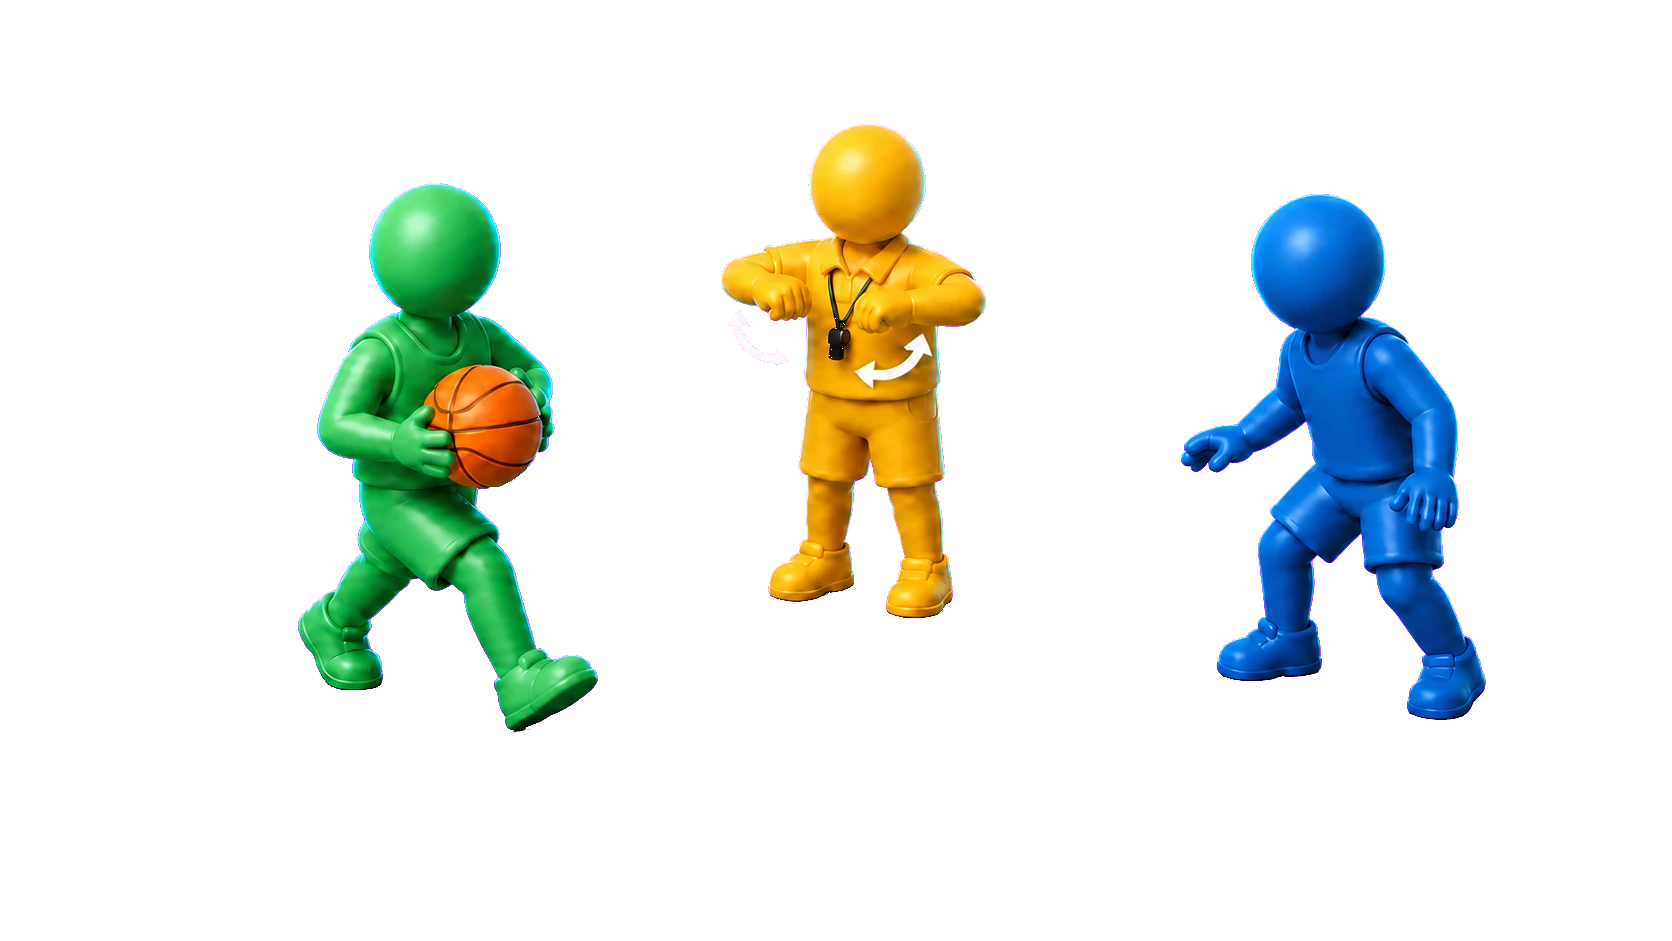
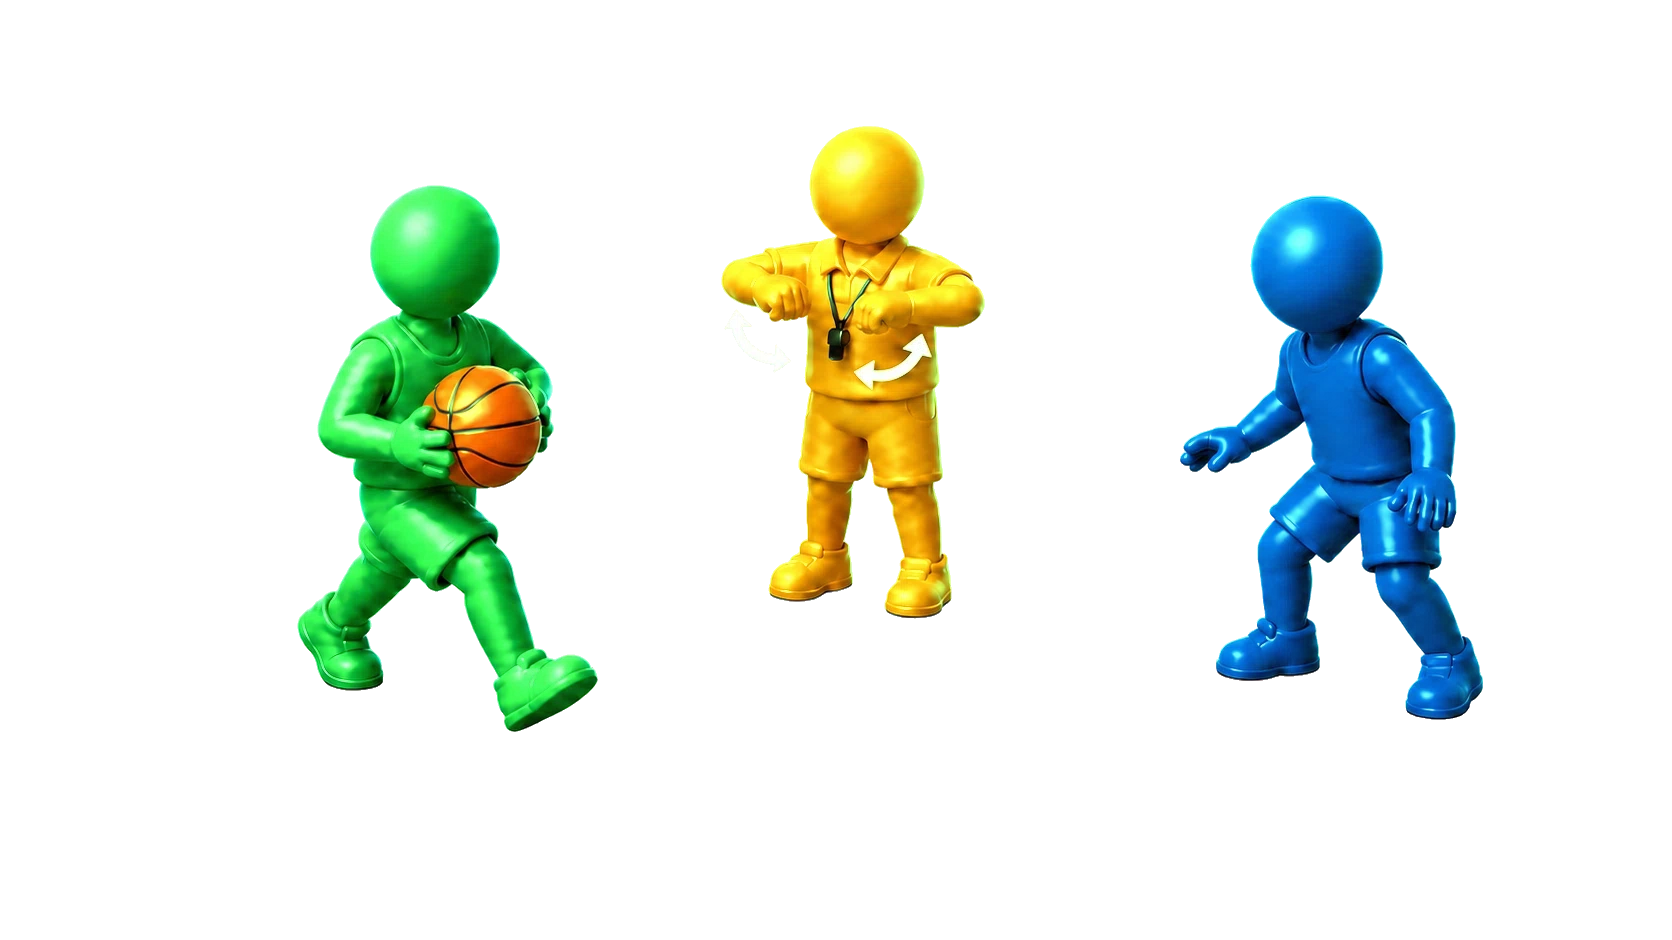
feat(rulebook): add easy guide and redraw illustrations

diff --git a/src/pages/RefereeRulebook.jsx b/src/pages/RefereeRulebook.jsx
@@ -1,17 +1,18 @@
 import { ArrowLeft, BookOpen, ClipboardCheck, ShieldCheck } from "lucide-react";
-import { Link } from "react-router-dom";
+import { Link, useSearchParams } from "react-router-dom";
 import Badge from "../components/common/Badge.jsx";
 import Button from "../components/common/Button.jsx";
 import Card from "../components/common/Card.jsx";
 import { assetUrl } from "../lib/assets.js";
 import {
   REFEREE_RULEBOOK_CHECKLIST,
+  REFEREE_RULEBOOK_EASY_SECTIONS,
   REFEREE_RULEBOOK_NOTICE,
   REFEREE_RULEBOOK_SECTIONS,
   REFEREE_STAT_GUIDELINES,
 } from "../lib/refereeRulebook.js";
 
-const RULEBOOK_ASSET_VERSION = "20260728-2";
+const RULEBOOK_ASSET_VERSION = "20260728-3";
 const RULEBOOK_SOURCES = [
   {
     label: "FIBA 경기규칙 2024",
@@ -91,12 +92,23 @@ function RulebookIllustration({ scene, theme = "dark" }) {
 }
 
 export default function RefereeRulebook({ theme = "dark" }) {
+  const [searchParams, setSearchParams] = useSearchParams();
+  const rulebookLevel = searchParams.get("level") === "detail" ? "detail" : "easy";
+  const isEasyRulebook = rulebookLevel === "easy";
+
+  const selectRulebookLevel = (nextLevel) => {
+    const nextParams = new URLSearchParams(searchParams);
+    if (nextLevel === "detail") nextParams.set("level", "detail");
+    else nextParams.delete("level");
+    setSearchParams(nextParams, { replace: true });
+  };
+
   return (
     <div className="page-stack referee-rulebook-page">
       <header className="page-header">
         <div>
           <p className="eyebrow">Study guide</p>
-          <h1>커뮤니티 심판 룰북</h1>
+          <h1>농구 룰북</h1>
         </div>
         <Button as={Link} variant="secondary" to="/app/settings">
           <ArrowLeft size={16} /> 설정
@@ -105,17 +117,60 @@ export default function RefereeRulebook({ theme = "dark" }) {
 
       <Card className="referee-rulebook-intro">
         <div>
-          <Badge tone="blue">FIBA 2024 · BOXTIER 운영 기준</Badge>
-          <h2>판정과 기록 기준</h2>
-          <p>경기 전 확인, 코트 판정, 출석·교체, 개인활약, 결과 확인·이의·확정과 MMR 기준입니다.</p>
+          <Badge tone={isEasyRulebook ? "green" : "blue"}>
+            {isEasyRulebook ? "처음 보는 사람용" : "FIBA 2024 · BOXTIER 운영 기준"}
+          </Badge>
+          <h2>{isEasyRulebook ? "경기에서 바로 쓰는 쉬운 규칙" : "판정과 기록 상세 기준"}</h2>
+          <p>
+            {isEasyRulebook
+              ? "처음 한 경기를 운영할 때 꼭 필요한 내용만 6단계로 줄였습니다."
+              : "경기 전 확인, 코트 판정, 출석·교체, 개인활약, 결과 확인·이의·확정과 MMR 기준입니다."}
+          </p>
         </div>
         <RulebookIllustration scene="standard" theme={theme} />
       </Card>
 
-      <div className="referee-rulebook-notice">
-        {REFEREE_RULEBOOK_NOTICE.map((notice) => <span key={notice}>{notice}</span>)}
+      <div className="segmented-control compact-segments rulebook-level-switch" aria-label="룰북 난이도">
+        <button
+          type="button"
+          className={isEasyRulebook ? "active" : ""}
+          aria-pressed={isEasyRulebook}
+          onClick={() => selectRulebookLevel("easy")}
+        >
+          쉬운 규칙
+        </button>
+        <button
+          type="button"
+          className={!isEasyRulebook ? "active" : ""}
+          aria-pressed={!isEasyRulebook}
+          onClick={() => selectRulebookLevel("detail")}
+        >
+          상세 규칙
+        </button>
       </div>
 
+      <div className="referee-rulebook-notice">
+        {(isEasyRulebook
+          ? [
+            "공식 대회·학교·협회 경기는 해당 대회 규칙이 먼저입니다.",
+            "세부 판정과 개인활약 기록 기준은 상세 규칙에서 확인합니다.",
+          ]
+          : REFEREE_RULEBOOK_NOTICE
+        ).map((notice) => <span key={notice}>{notice}</span>)}
+      </div>
+
+      {isEasyRulebook ? (
+        <RulebookChapter
+          chapter={{
+            eyebrow: "Easy rulebook",
+            title: "처음 한 경기, 이것만 확인",
+            description: "더 정확한 판정 기준과 개인활약 세부 기준은 상세 규칙에서 확인합니다.",
+            sections: REFEREE_RULEBOOK_EASY_SECTIONS,
+          }}
+          theme={theme}
+        />
+      ) : (
+        <>
       <section className="referee-rulebook-checklist">
         <div className="section-title-row">
           <div>
@@ -178,6 +233,8 @@ export default function RefereeRulebook({ theme = "dark" }) {
       {RULEBOOK_CHAPTERS.slice(1).map((chapter) => (
         <RulebookChapter key={chapter.title} chapter={chapter} theme={theme} />
       ))}
+        </>
+      )}
 
       <Card className="referee-rulebook-footer">
         <BookOpen size={20} />

diff --git a/src/lib/refereeRulebook.js b/src/lib/refereeRulebook.js
@@ -1,3 +1,90 @@
+export const REFEREE_RULEBOOK_EASY_SECTIONS = [
+  {
+    title: "1. 시작 전에 1분만 확인",
+    scene: "pregame",
+    summary: "사람, 규칙, 코트 상태를 먼저 맞추면 경기 중 다툼이 크게 줄어듭니다.",
+    points: [
+      "출석한 출전선수·후보·심판·경기시계 담당자가 누구인지 확인합니다.",
+      "목표 점수, 경기시간, 샷클락, 파울 처리처럼 이번 경기에 쓸 규칙만 말로 맞춥니다.",
+      "바닥이 미끄럽거나 골대가 흔들리면 경기보다 안전 확인이 먼저입니다.",
+    ],
+    details: [{
+      label: "한 줄 기준",
+      items: ["시작 전 합의하지 않은 규칙을 경기 중 한쪽에만 새로 적용하지 않습니다."],
+    }],
+  },
+  {
+    title: "2. 반칙은 불이익이 생겼는지 확인",
+    scene: "contact",
+    summary: "몸이 닿았다고 전부 파울은 아닙니다. 균형·속도·방향·슛에 영향을 줬는지 봅니다.",
+    points: [
+      "밀기, 잡기, 팔 치기처럼 상대 플레이를 막아 이득을 얻으면 파울입니다.",
+      "라인을 밟고 공을 잡으면 아웃이고, 공을 든 채 불법으로 발을 옮기면 트래블링입니다.",
+      "확실히 보지 못한 장면은 목소리가 큰 사람의 주장만으로 판정하지 않습니다.",
+    ],
+    details: [{
+      label: "헷갈릴 때",
+      items: ["비슷한 접촉에는 양 팀 모두 같은 기준을 적용합니다."],
+    }],
+  },
+  {
+    title: "3. 점수와 시계 담당을 구분",
+    scene: "clock",
+    summary: "경기시계를 조작하는 사람과 공식 기록을 맡는 사람의 권한은 경기 방식에 따라 다릅니다.",
+    points: [
+      "심판 경기에서는 배정 심판이 양 팀 점수와 개인기록을 관리합니다.",
+      "무심판·시계 사용 경기에서는 현재 경기시계 담당자가 양 팀 점수를 관리합니다.",
+      "무심판·시계 미사용 경기에서만 방장이 양 팀 점수를 관리합니다.",
+    ],
+    details: [{
+      label: "샷클락",
+      items: ["24초·30초·60초 또는 사용 안 함 중 시작 전에 고르고, 자동 14초 재설정은 하지 않습니다."],
+    }],
+  },
+  {
+    title: "4. QR 출석과 실제 출전은 다름",
+    scene: "authority",
+    summary: "QR을 찍었다고 경기 출전 기록이 생기지는 않습니다. 실제 코트에 들어가야 출전입니다.",
+    points: [
+      "지각 QR을 찍은 선수는 후보로 등록될 뿐 자동 출전하지 않습니다.",
+      "후보 본인은 같은 사이드 출전선수 한 명을 골라 자진 교체할 수 있습니다.",
+      "배정 심판은 양 팀 교체가 가능하지만 무심판 방장·파티장·다른 선수는 타인을 교체할 수 없습니다.",
+    ],
+    details: [{
+      label: "출전 기록",
+      items: ["교체 transaction에 실제로 포함된 선수만 출전시간·개인 전적·MMR 대상이 됩니다."],
+    }],
+  },
+  {
+    title: "5. 개인기록은 심판 경기만",
+    scene: "stats",
+    summary: "일반 live 경기의 개인 득점·리바운드·어시스트는 배정 심판이 있을 때만 만듭니다.",
+    points: [
+      "심판은 실제 출전선수의 개인기록을 입력하고, 기록이 0이어도 직접 0 기록을 확인합니다.",
+      "무심판 일반 경기는 팀 점수와 승패만 남기고 개인기록은 만들지 않습니다.",
+      "내가 따로 만드는 personal_record는 본인 기록용 별도 기능입니다.",
+    ],
+    details: [{
+      label: "주의",
+      items: ["무심판 경기의 팀 점수를 개인 득점 합계로 다시 계산하지 않습니다."],
+    }],
+  },
+  {
+    title: "6. 이의가 끝난 뒤 최종 확정",
+    scene: "dispute",
+    summary: "점수나 기록이 틀리면 최종 확정 전에 이의신청하고, 열린 이의가 없어야 경기를 확정할 수 있습니다.",
+    points: [
+      "심판 경기의 이의 처리·최종 확정은 배정 심판이 합니다.",
+      "무심판 경기의 이의 처리·최종 확정은 방장이 합니다.",
+      "최종 확정 뒤에는 새 이의신청 대신 경기 신고 절차를 사용합니다.",
+    ],
+    details: [{
+      label: "마지막 확인",
+      items: ["열린 이의 0건과 최종 점수를 확인한 뒤 최종 승인합니다."],
+    }],
+  },
+];
+
 export const REFEREE_RULEBOOK_SECTIONS = [
   {
     title: "1. 심판의 기준",

diff --git a/src/styles/global-workflows.css b/src/styles/global-workflows.css
@@ -3286,6 +3286,16 @@ input[type="color"] {
   line-height: 1.55;
 }
 
+.rulebook-level-switch {
+  width: min(100%, 420px);
+  grid-template-columns: repeat(2, minmax(0, 1fr));
+}
+
+.rulebook-level-switch button {
+  min-width: 0;
+  white-space: nowrap;
+}
+
 html[data-theme="light"] .referee-rulebook-page .referee-rulebook-intro h2 {
   color: var(--text);
   text-shadow: none;

diff --git a/docs/design-system.md b/docs/design-system.md
@@ -2247,3 +2247,10 @@ UI 수정 전:
 1. 튜토리얼 스크린샷은 `rankball` R2의 `/assets/guide/...` 키에 저장하고 `assetUrl()`로 표시한다.
 2. `public/assets/guide/...` 파일은 캡처 원본과 빌드 검증용으로 보존하되, 배포 화면의 이미지 원본으로 직접 연결하지 않는다.
 3. 스크린샷을 갱신할 때는 로컬 원본과 대응하는 R2 객체를 함께 갱신한다. 장기 캐시를 무효화해야 하면 R2 객체명에 버전 접미사를 붙인다.
+
+## 현재 유효: 룰북 난이도와 삽화
+
+1. 룰북은 `쉬운 규칙`을 기본으로 열고 `상세 규칙`을 같은 페이지의 2분할 segment로 전환한다. 상세 규칙은 기존 전체 내용을 생략 없이 유지한다.
+2. 쉬운 규칙은 현재 유효한 정책만 6단계로 요약하며, 상세 규칙과 다른 권한·용어·예외를 만들지 않는다.
+3. 농구 골대 삽화의 백보드는 흰색 판으로 표시한다. 농구공은 끊기거나 겹친 선 없이 표준 곡선형 8패널 심을 표시한다.
+4. 룰북 dark/light WebP를 함께 갱신하고, 배포 이미지는 `assetUrl()`을 거쳐 R2에서 제공한다.
